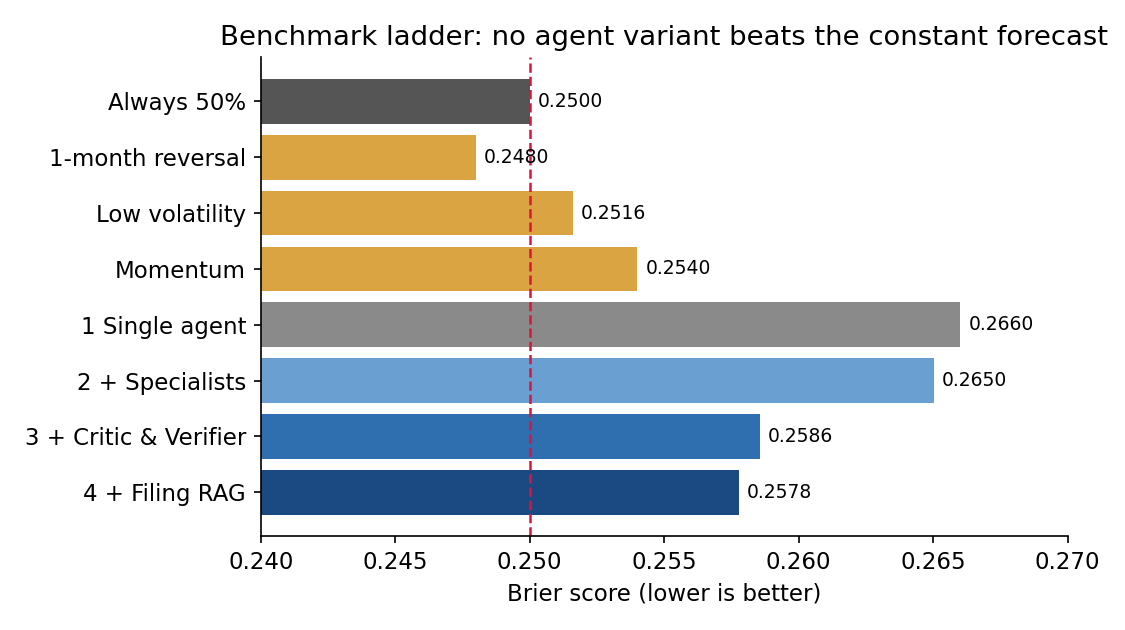
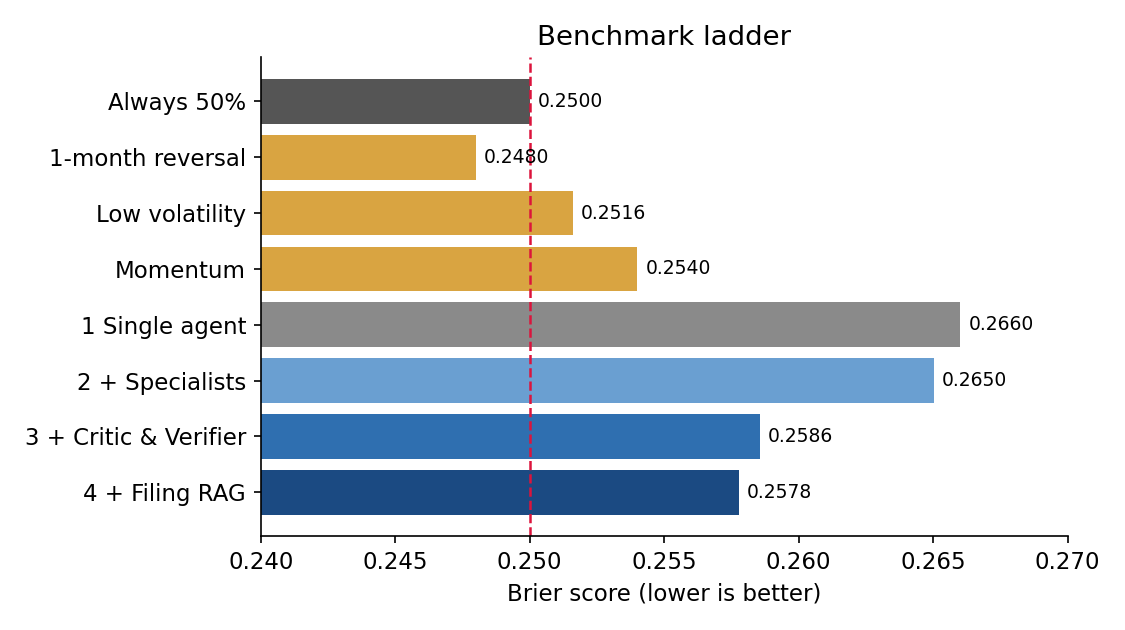
Update architecture figure, UI labels, README reproduction steps (#12)

Changed region(s): [[0.1867, 0.0302, 0.9956, 0.0905]]

diff --git a/scripts/make_figures.py b/scripts/make_figures.py
@@ -112,7 +112,7 @@ ax.axvline(0.25, color="crimson", ls="--", lw=1.2)
 ax.set_xlim(0.24, 0.27); ax.set_xlabel("Brier score (lower is better)")
 for y, it in zip(range(len(items))[::-1], items):
     ax.text(it[1] + 0.0003, y, f"{it[1]:.4f}", va="center", fontsize=9)
-ax.set_title("Benchmark ladder: no agent variant beats the constant forecast"); fig.tight_layout()
+ax.set_title("Benchmark ladder"); fig.tight_layout()
 fig.savefig(OUT / "benchmark_ladder.png"); plt.close(fig)
 
 # 5. Forecast spread by variant (shrinkage story)
@@ -142,3 +142,56 @@ for v in ("multi_specialists", "multi_critic_verifier", "multi_rag"):
               "status": dict(Counter(r.get("verification") for r in rs))}
 (OUT / "guardrail_ablation.json").write_text(json.dumps(abl, indent=1))
 print("figures written:", sorted(p.name for p in OUT.iterdir()))
+
+
+# 8. Architecture diagram (block flow of the routed multi-agent variants)
+from matplotlib.patches import FancyBboxPatch  # noqa: E402
+
+
+def box(ax, x, y, w, h, text, fc="#eaf1fb", ec="#2f6fb0", fs=9.5, bold=False):
+    ax.add_patch(FancyBboxPatch((x, y), w, h, boxstyle="round,pad=0.02,rounding_size=0.12",
+                                fc=fc, ec=ec, lw=1.4))
+    ax.text(x + w / 2, y + h / 2, text, ha="center", va="center", fontsize=fs,
+            fontweight="bold" if bold else "normal", wrap=True)
+
+
+def arrow(ax, x1, y1, x2, y2, style="-|>", ls="-", color="#444"):
+    ax.annotate("", xy=(x2, y2), xytext=(x1, y1),
+                arrowprops=dict(arrowstyle=style, color=color, lw=1.3, ls=ls))
+
+
+fig, ax = plt.subplots(figsize=(10.5, 7.2))
+ax.set_xlim(0, 14); ax.set_ylim(0, 10); ax.axis("off")
+box(ax, 0.3, 8.6, 2.6, 1.0, "User / CLI /\nStreamlit UI", "#f4f4f4", "#777")
+box(ax, 3.7, 8.6, 3.0, 1.0, "Input guard (rules)\nadvice, execution, injection,\nticker, date, sector", "#fdecea", "#c0392b", 8.5)
+box(ax, 7.5, 8.6, 3.0, 1.0, "Orchestrator (code)\nfixed plan, as-of date\nset by code", "#eaf1fb", "#2f6fb0", 8.5)
+arrow(ax, 2.9, 9.1, 3.7, 9.1); arrow(ax, 6.7, 9.1, 7.5, 9.1)
+ax.text(5.2, 8.25, "declined: reason, no forecast", fontsize=8, color="#c0392b", ha="center")
+# specialists
+sp = [("Fundamentals\n(EDGAR XBRL)", 0.5), ("Macro\n(FRED vintage)", 3.85), ("Technical\n(prices, indicators)", 7.2),
+      ("Filings RAG\n(multi_rag only)", 10.55)]
+SPW = 2.7
+for t, x in sp:
+    box(ax, x, 6.3, SPW, 1.2, t, "#e8f6ec", "#2e8b57", 9)
+    arrow(ax, 9.0, 8.6, x + SPW / 2, 7.5)
+# strategist -> critic -> verifier
+box(ax, 5.2, 4.3, 3.6, 1.1, "Strategist (gpt-oss:20b)\nprobability, evidence, risks", "#eaf1fb", "#2f6fb0", 9.5, True)
+for t, x in sp:
+    arrow(ax, x + SPW / 2, 6.3, 7.0, 5.4, color="#999")
+box(ax, 9.7, 4.3, 3.6, 1.1, "Critic (gemma4:12b)\ndifferent model family", "#f3eafb", "#7d3c98", 9.5, True)
+arrow(ax, 8.8, 4.85, 9.7, 4.85)
+box(ax, 9.7, 2.5, 3.6, 1.1, "Verifier (deterministic code)\nevery number vs tool results", "#e8f6ec", "#2e8b57", 9.5, True)
+arrow(ax, 11.5, 4.3, 11.5, 3.6)
+arrow(ax, 9.7, 3.05, 7.0, 4.3, ls="--", color="#c0392b")
+ax.text(8.0, 3.35, "one bounded\nrevision", fontsize=8, color="#c0392b", ha="center")
+# routing
+box(ax, 4.3, 0.4, 4.7, 1.5, "Guardrail routing\ngreen: deliver as is\norange: drop unsupported text, flag review\nred or Critic failure: abstain at 50%", "#fff6e5", "#d9a441", 8.5)
+arrow(ax, 9.7, 2.8, 9.0, 1.9)
+box(ax, 9.7, 0.4, 3.6, 1.5, "Finalize (code)\nrating, gaps, paper-trade\nlevels, log and trace", "#f4f4f4", "#777", 8.5)
+arrow(ax, 9.0, 1.15, 9.7, 1.15)
+# tools
+box(ax, 0.3, 2.4, 4.2, 2.2, "Read-only tools (as-of fixed by code)\nSEC EDGAR / filing text\nprices + indicators\nFRED macro (vintage dates)\nlocal embeddings (Granite)\ndirect Python or MCP servers", "#f4f4f4", "#777", 8.5)
+arrow(ax, 2.4, 4.6, 2.4, 6.3, ls="--", color="#777")
+ax.text(0.3, 1.5, "Variants compared:\n1 single agent\n2 specialists + Strategist\n    (Verifier measures only)\n3 + Critic and routing\n4 + filing RAG", fontsize=8.5, color="#333", va="center")
+fig.tight_layout(); fig.savefig(OUT / "architecture.png", dpi=170); plt.close(fig)
+print("architecture diagram written")

diff --git a/ui/app.py b/ui/app.py
@@ -64,6 +64,10 @@ def show(res: dict):
     c3.metric("Number check", LIGHT.get(ver.get("status"), "n/a (baseline)"))
     c4.metric("Time", f"{res.get('seconds', 0):.0f}s", f"{res.get('model_calls')} model / "
               f"{res.get('tool_calls')} tool calls", delta_color="off")
+    if res.get("seconds", 0) < 2:
+        st.caption("Time under 2 s: this run was replayed from the local cache of an "
+                   "earlier identical run, so the time is not the real latency "
+                   "(about 90 to 110 s for a fresh multi-agent run).")
     if ver.get("review_required"):
         if ver.get("route_reason") == "critic_unavailable":
             st.warning("The independent Critic did not return a valid review. The forecast "
@@ -82,13 +86,42 @@ def show(res: dict):
 
     left, right = st.columns(2)
     with left:
-        st.markdown("**Evidence** (every number is checked against tool results)")
+        st.markdown("**Evidence cited in the final forecast** (numbers are matched to tool results by the Verifier)")
         ev = pd.DataFrame(f.get("evidence") or [])
-        st.dataframe(ev, use_container_width=True, hide_index=True) if len(ev) else st.write("None")
+        if len(ev):
+            st.dataframe(ev, use_container_width=True, hide_index=True)
+        else:
+            st.write("None")
     with right:
         st.markdown("**Risks** (each backed by a tool result)")
         rk = pd.DataFrame(f.get("risks") or [])
-        st.dataframe(rk, use_container_width=True, hide_index=True) if len(rk) else st.write("None")
+        if len(rk):
+            st.dataframe(rk, use_container_width=True, hide_index=True)
+        else:
+            st.write("None")
+
+    spec_rows = []
+    def _norm(s):
+        return str(s).strip().rstrip(".").lower()
+
+    cited = {_norm(e.get("claim")) for e in (f.get("evidence") or []) if isinstance(e, dict)}
+    for name, s in (f.get("specialists") or {}).items():
+        if not isinstance(s, dict):
+            continue
+        for x in s.get("findings") or []:
+            if isinstance(x, dict):
+                spec_rows.append({"specialist": name, "direction": x.get("direction"),
+                                  "strength": x.get("strength"), "claim": x.get("claim"),
+                                  "cited in final evidence": _norm(x.get("claim")) in cited})
+    if spec_rows:
+        sp = pd.DataFrame(spec_rows)
+        n_all = sp["direction"].value_counts().to_dict()
+        st.markdown(f"**All specialist findings, including ones not cited above** "
+                    f"({len(sp)} findings: {n_all})")
+        st.caption("The Strategist chooses which findings to cite. This table shows "
+                   "everything the specialists reported, so contrary signals "
+                   "(for example RSI and MACD) stay visible.")
+        st.dataframe(sp, use_container_width=True, hide_index=True)
 
     pt = f.get("paper_trade")
     if pt:
@@ -111,10 +144,13 @@ def show(res: dict):
                 st.write(f"- unverified `{u['number']}` in {u['where']}")
             crit = f.get("critic") or {}
             if crit:
-                st.write(f"Critic verdict: **{crit.get('verdict')}**"
+                st.markdown("**Critic's review of the first draft** (the forecast above is "
+                            "the draft after revision; the Verifier checked it again)")
+                st.write(f"Critic verdict on the first draft: **{crit.get('verdict')}**"
                          f"{' (review unavailable)' if crit.get('failed') else ''}")
                 if crit.get("weakest_claim"):
-                    st.write(f"Weakest claim: {crit['weakest_claim']}")
+                    st.write(f"Weakest claim in the first draft (always named, even when "
+                             f"accepted): {crit['weakest_claim']}")
                 for i in crit.get("issues", []):
                     st.write(f"- {i.get('type')}: {i.get('detail')}")
     with st.expander("Agent timing and tool calls"):

diff --git a/forecaster/config.py b/forecaster/config.py
@@ -33,7 +33,7 @@ LLM_API_KEY = secret("LLM_API_KEY", "ollama")
 # Optional cap on real (uncached) requests per UTC day. 0 = unlimited (local models).
 DAILY_CALL_BUDGET = int(secret("DAILY_CALL_BUDGET", "0"))
 
-# Non-financial large caps across sectors (confirm with the user).
+# Non-financial large caps across sectors.
 TICKERS = ["AAPL", "MSFT", "NVDA", "AMZN", "GOOGL", "META", "XOM", "DAL", "MU",
            "JNJ", "WMT", "HD", "CAT", "NEE", "PG"]
 BENCHMARK = "SPY"
@@ -52,9 +52,8 @@ MODELS = {
     "judge": "gemma4:12b",
 }
 
-# Embeddings for filing retrieval (RAG), served by Ollama. IBM Granite family;
-# the embedding variant is not individually listed in internal model guidance, so
-# confirm before any use beyond local testing.
+# Embeddings for filing retrieval (RAG), served by Ollama (IBM Granite embedding
+# model). Check the model's license before any use beyond local testing.
 EMBED_MODEL = secret("EMBED_MODEL", "granite-embedding:278m")
 RAG_CHUNK_CHARS = 1200      # about 300 tokens per chunk
 RAG_OVERLAP_CHARS = 200

diff --git a/README.md b/README.md
@@ -52,7 +52,7 @@ scripts/           run_baseline, run_universe, run_backtest, score, smoke tests
 ui/                Streamlit forecast and evaluation interface
 tests/             offline unit tests
 eval/              logged forecasts (JSONL, committed as timestamp proof)
-logs/              per-run traces with tool results
+logs/              per-run traces with tool results (sample traces only; the rest are git-ignored)
 ```
 
 ## Setup
@@ -71,6 +71,8 @@ ollama pull granite-embedding:278m   # filing retrieval (multi_rag variant)
 
 - `FRED_API_KEY`: free at fred.stlouisfed.org.
 - `EDGAR_USER_AGENT`: SEC requires a contact string, e.g. `Your Name you@example.com`.
+
+Notes: the forecasts need internet access (SEC EDGAR, FRED and Yahoo Finance via yfinance) and Ollama running locally (`ollama serve`, or the Ollama app). The models were run on a 24 GB laptop. A multi-agent forecast takes about 1 to 3 minutes; a first run is slower because data and model answers are cached in `.cache/`. The unit tests need neither network nor Ollama.
 
 ## Usage
 
@@ -96,6 +98,19 @@ streamlit run ui/app.py                           # demo interface
 ```
 
 Responses and API data are cached in `.cache/` (git-ignored).
+
+### Reproducing the evaluation
+
+The committed forecasts (`eval/backtest/forecasts.jsonl`, 660 rows) let you re-score without re-running the models. Scoring needs price data, so it needs internet access. Run the steps in this order, because later steps read files that earlier steps write locally (`eval/backtest/scored_*_rows.json`, git-ignored):
+
+```bash
+python scripts/score.py --common      # 1. scores the four variants on the same 165 pairs
+python scripts/benchmarks.py          # 2. non-LLM rules and permutation test (needs SPY prices)
+python scripts/eval_guardrails.py     # 3. input-guard adversarial set (offline)
+python scripts/make_figures.py        # 4. charts into docs/figures
+```
+
+Re-running the models themselves (`scripts/run_backtest.py`) takes many hours on a laptop and gives somewhat different probabilities, which is why the logged forecasts are the committed record. Sample single-agent traces from the 2026-11-16 live run are in `logs/`; other run traces stay local.
 
 ## Evaluation artifacts
 

diff --git a/docs/architecture.md b/docs/architecture.md
@@ -17,13 +17,11 @@ flowchart LR
     O --> F[Fundamentals specialist]
     O --> M[Macro specialist]
     O --> T[Technical specialist]
-    O --> A[Analyst/news slot\ncurrently a gap stub]
     O -->|multi_rag only| S[Filings specialist]
 
     F --> J[Strategist]
     M --> J
     T --> J
-    A --> J
     S -. multi_rag .-> J
     J -->|multi_specialists| MS[Forecast and numeric check only]
     J -->|multi_critic_verifier or multi_rag| C[Critic\nGemma family]
@@ -83,8 +81,6 @@ sequenceDiagram
             Data-->>Tools: dated observations, filings, and calculated indicators
             Tools-->>Spec: tool output with source metadata
             Spec-->>Graph: structured findings and explicit gaps
-        and Analyst/news placeholder
-            Graph->>Graph: record unavailable data-source gap
         end
         Graph->>Judge: merge findings and ask for probability, evidence, risks
         Judge-->>Graph: structured draft
